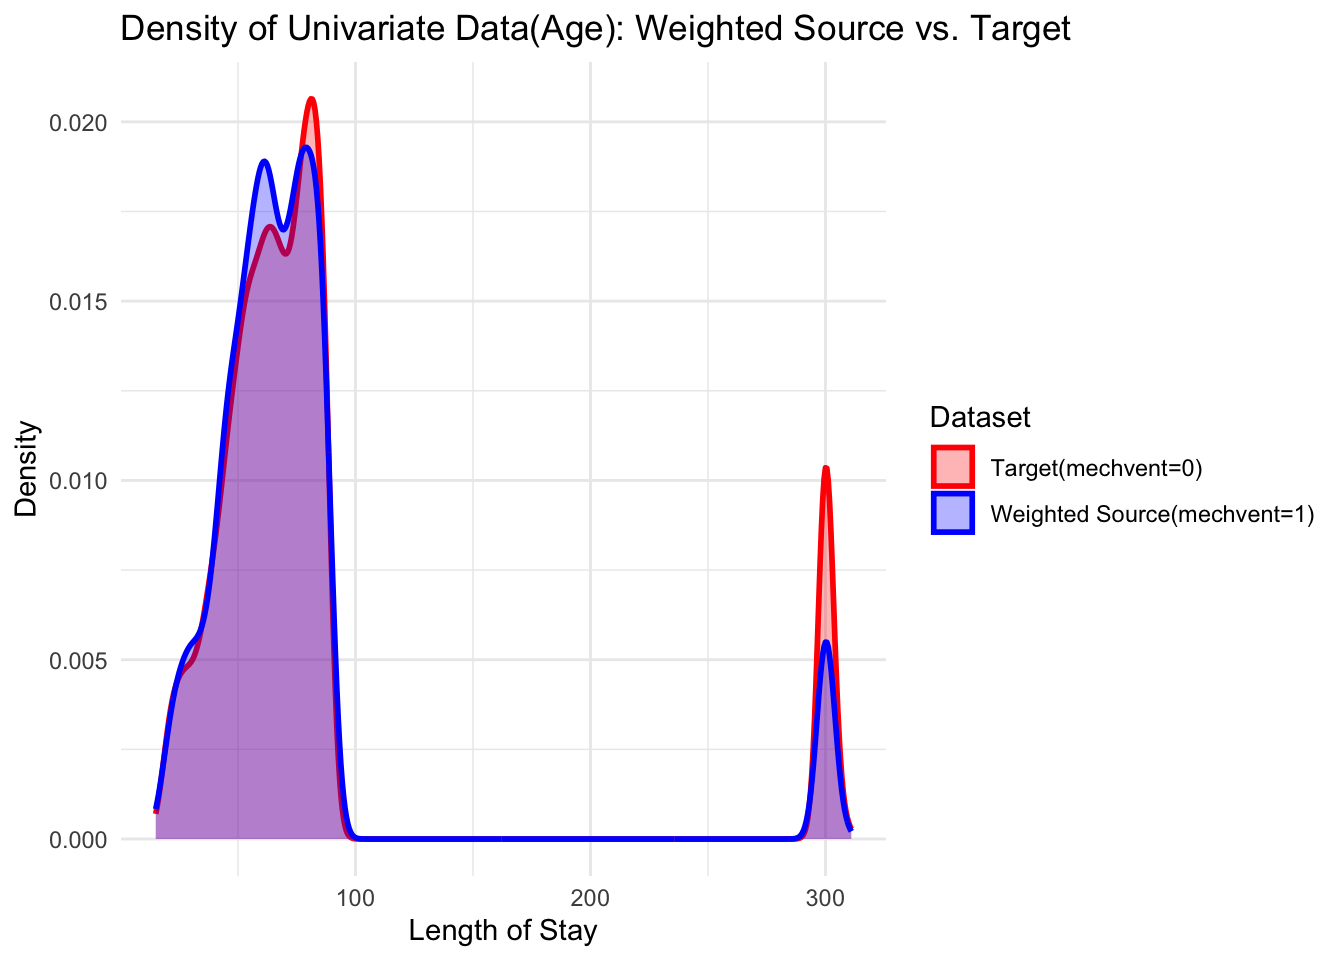
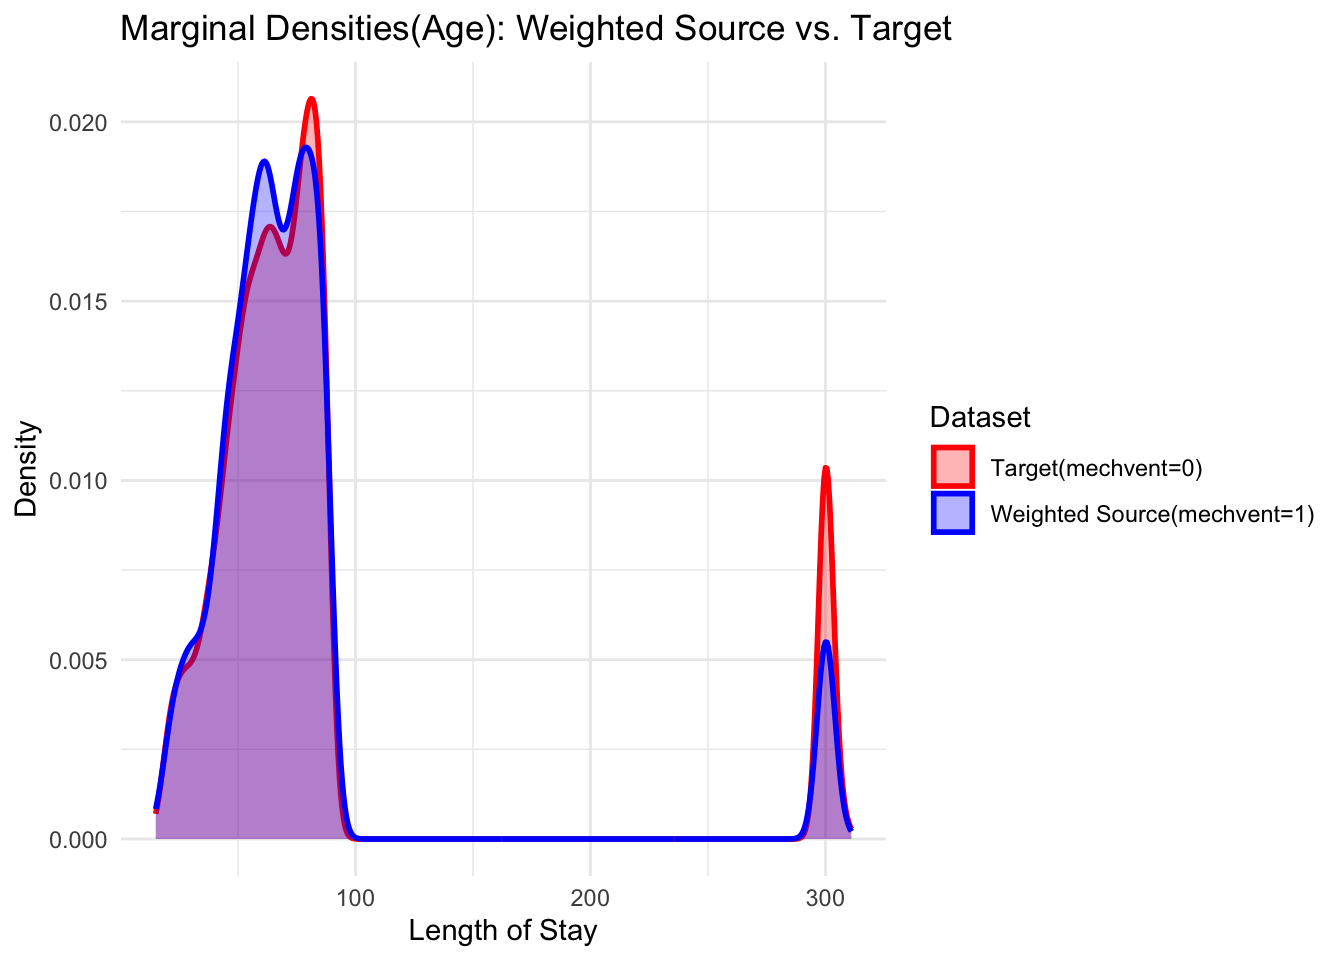
update example

Changed region(s): [[0.0938, 0.0, 0.7812, 0.0625]]

diff --git a/least_square.html b/least_square.html
@@ -460,17 +460,17 @@ summary(fit_ulsif)</code></pre>
 ##   Kernel type: Gaussian with L2 norm distances
 ##   Number of kernels: 200
 ## 
-## Optimal sigma: 0.5043531
+## Optimal sigma: 0.4926679
 ## Optimal lambda: 0.078476
-## Optimal kernel weights: num [1:201] 0.200821 0.019025 -0.000311 0.012352 0.021278 ...
+## Optimal kernel weights: num [1:201] 0.204215 0.002072 -0.005423 -0.000126 0.004255 ...
 ##  
-## Pearson divergence between P(nu) and P(de): 0.2827
+## Pearson divergence between P(nu) and P(de): 0.2823
 ## For a two-sample homogeneity test, use &#39;summary(x, test = TRUE)&#39;.</code></pre>
 <pre class="r"><code># Predict estimated density ratio
 pred_ulsif  &lt;- predict(fit_ulsif, newdata = denominator_data$x5)
 summary(pred_ulsif)</code></pre>
 <pre><code>##    Min. 1st Qu.  Median    Mean 3rd Qu.    Max. 
-## 0.03542 0.47328 0.97416 0.98424 1.22037 3.55263</code></pre>
+## 0.04821 0.47326 0.97651 0.98397 1.21468 3.58471</code></pre>
 <pre class="r"><code># Function of true density ratio
 dbinorm &lt;- function(x, p, dif) {
   p * dnorm(x, 0, 1) + (1 - p) * dnorm(x, dif, 1)
@@ -625,7 +625,7 @@ ggplot() +
                data = source_data3, alpha = 0.3, size = 1) +
   scale_color_manual(name = &quot;Dataset&quot;, values = c(&quot;Weighted Source(mechvent=1)&quot; = &quot;blue&quot;, &quot;Target(mechvent=0)&quot; = &quot;red&quot;)) +
   scale_fill_manual(name = &quot;Dataset&quot;, values = c(&quot;Weighted Source(mechvent=1)&quot; = &quot;blue&quot;, &quot;Target(mechvent=0)&quot; = &quot;red&quot;)) +
-  labs(title = &quot;Density of Univariate Data(LOS): Weighted Source vs. Target&quot;,
+  labs(title = &quot;Marginal Densities(LOS): Weighted Source vs. Target&quot;,
        x = &quot;Length of Stay&quot;, y = &quot;Density&quot;) +
   theme_minimal()</code></pre>
 <p><img src="least_square_files/figure-html/unnamed-chunk-7-1.png" width="672" /></p>
@@ -636,7 +636,7 @@ ggplot() +
                data = source_data3, alpha = 0.3, size = 1) +
   scale_color_manual(name = &quot;Dataset&quot;, values = c(&quot;Weighted Source(mechvent=1)&quot; = &quot;blue&quot;, &quot;Target(mechvent=0)&quot; = &quot;red&quot;)) +
   scale_fill_manual(name = &quot;Dataset&quot;, values = c(&quot;Weighted Source(mechvent=1)&quot; = &quot;blue&quot;, &quot;Target(mechvent=0)&quot; = &quot;red&quot;)) +
-  labs(title = &quot;Density of Univariate Data(Age): Weighted Source vs. Target&quot;,
+  labs(title = &quot;Marginal Densities(Age): Weighted Source vs. Target&quot;,
        x = &quot;Length of Stay&quot;, y = &quot;Density&quot;) +
   theme_minimal()</code></pre>
 <p><img src="least_square_files/figure-html/unnamed-chunk-7-2.png" width="672" /></p>
@@ -647,7 +647,7 @@ ggplot() +
                data = source_data3, alpha = 0.3, size = 1) +
   scale_color_manual(name = &quot;Dataset&quot;, values = c(&quot;Weighted Source(mechvent=1)&quot; = &quot;blue&quot;, &quot;Target(mechvent=0)&quot; = &quot;red&quot;)) +
   scale_fill_manual(name = &quot;Dataset&quot;, values = c(&quot;Weighted Source(mechvent=1)&quot; = &quot;blue&quot;, &quot;Target(mechvent=0)&quot; = &quot;red&quot;)) +
-  labs(title = &quot;Density of Univariate Data(Heart Rate): Weighted Source vs. Target&quot;,
+  labs(title = &quot;Marginal Densities(Heart Rate): Weighted Source vs. Target&quot;,
        x = &quot;Length of Stay&quot;, y = &quot;Density&quot;) +
   theme_minimal()</code></pre>
 <p><img src="least_square_files/figure-html/unnamed-chunk-7-3.png" width="672" /></p>
@@ -694,6 +694,14 @@ does the weighting process perform.</p>
 </div>
 <div id="highlights" class="section level1">
 <h1>Highlights</h1>
+<ul>
+<li>Least Square Importance Fitting is implemented in
+<code>densityratio</code> R package. This package also includes Kernel
+Mean Matching, and KL Importance Estimation. <a
+href="https://jmlr.org/papers/volume10/kanamori09a/kanamori09a.pdf">Kanamori
+et all, 2009</a> proved the Least Square method(unconstrained version)
+is stable and the fastest among the methods.</li>
+</ul>
 </div>
 <div id="reference" class="section level1">
 <h1>Reference</h1>
